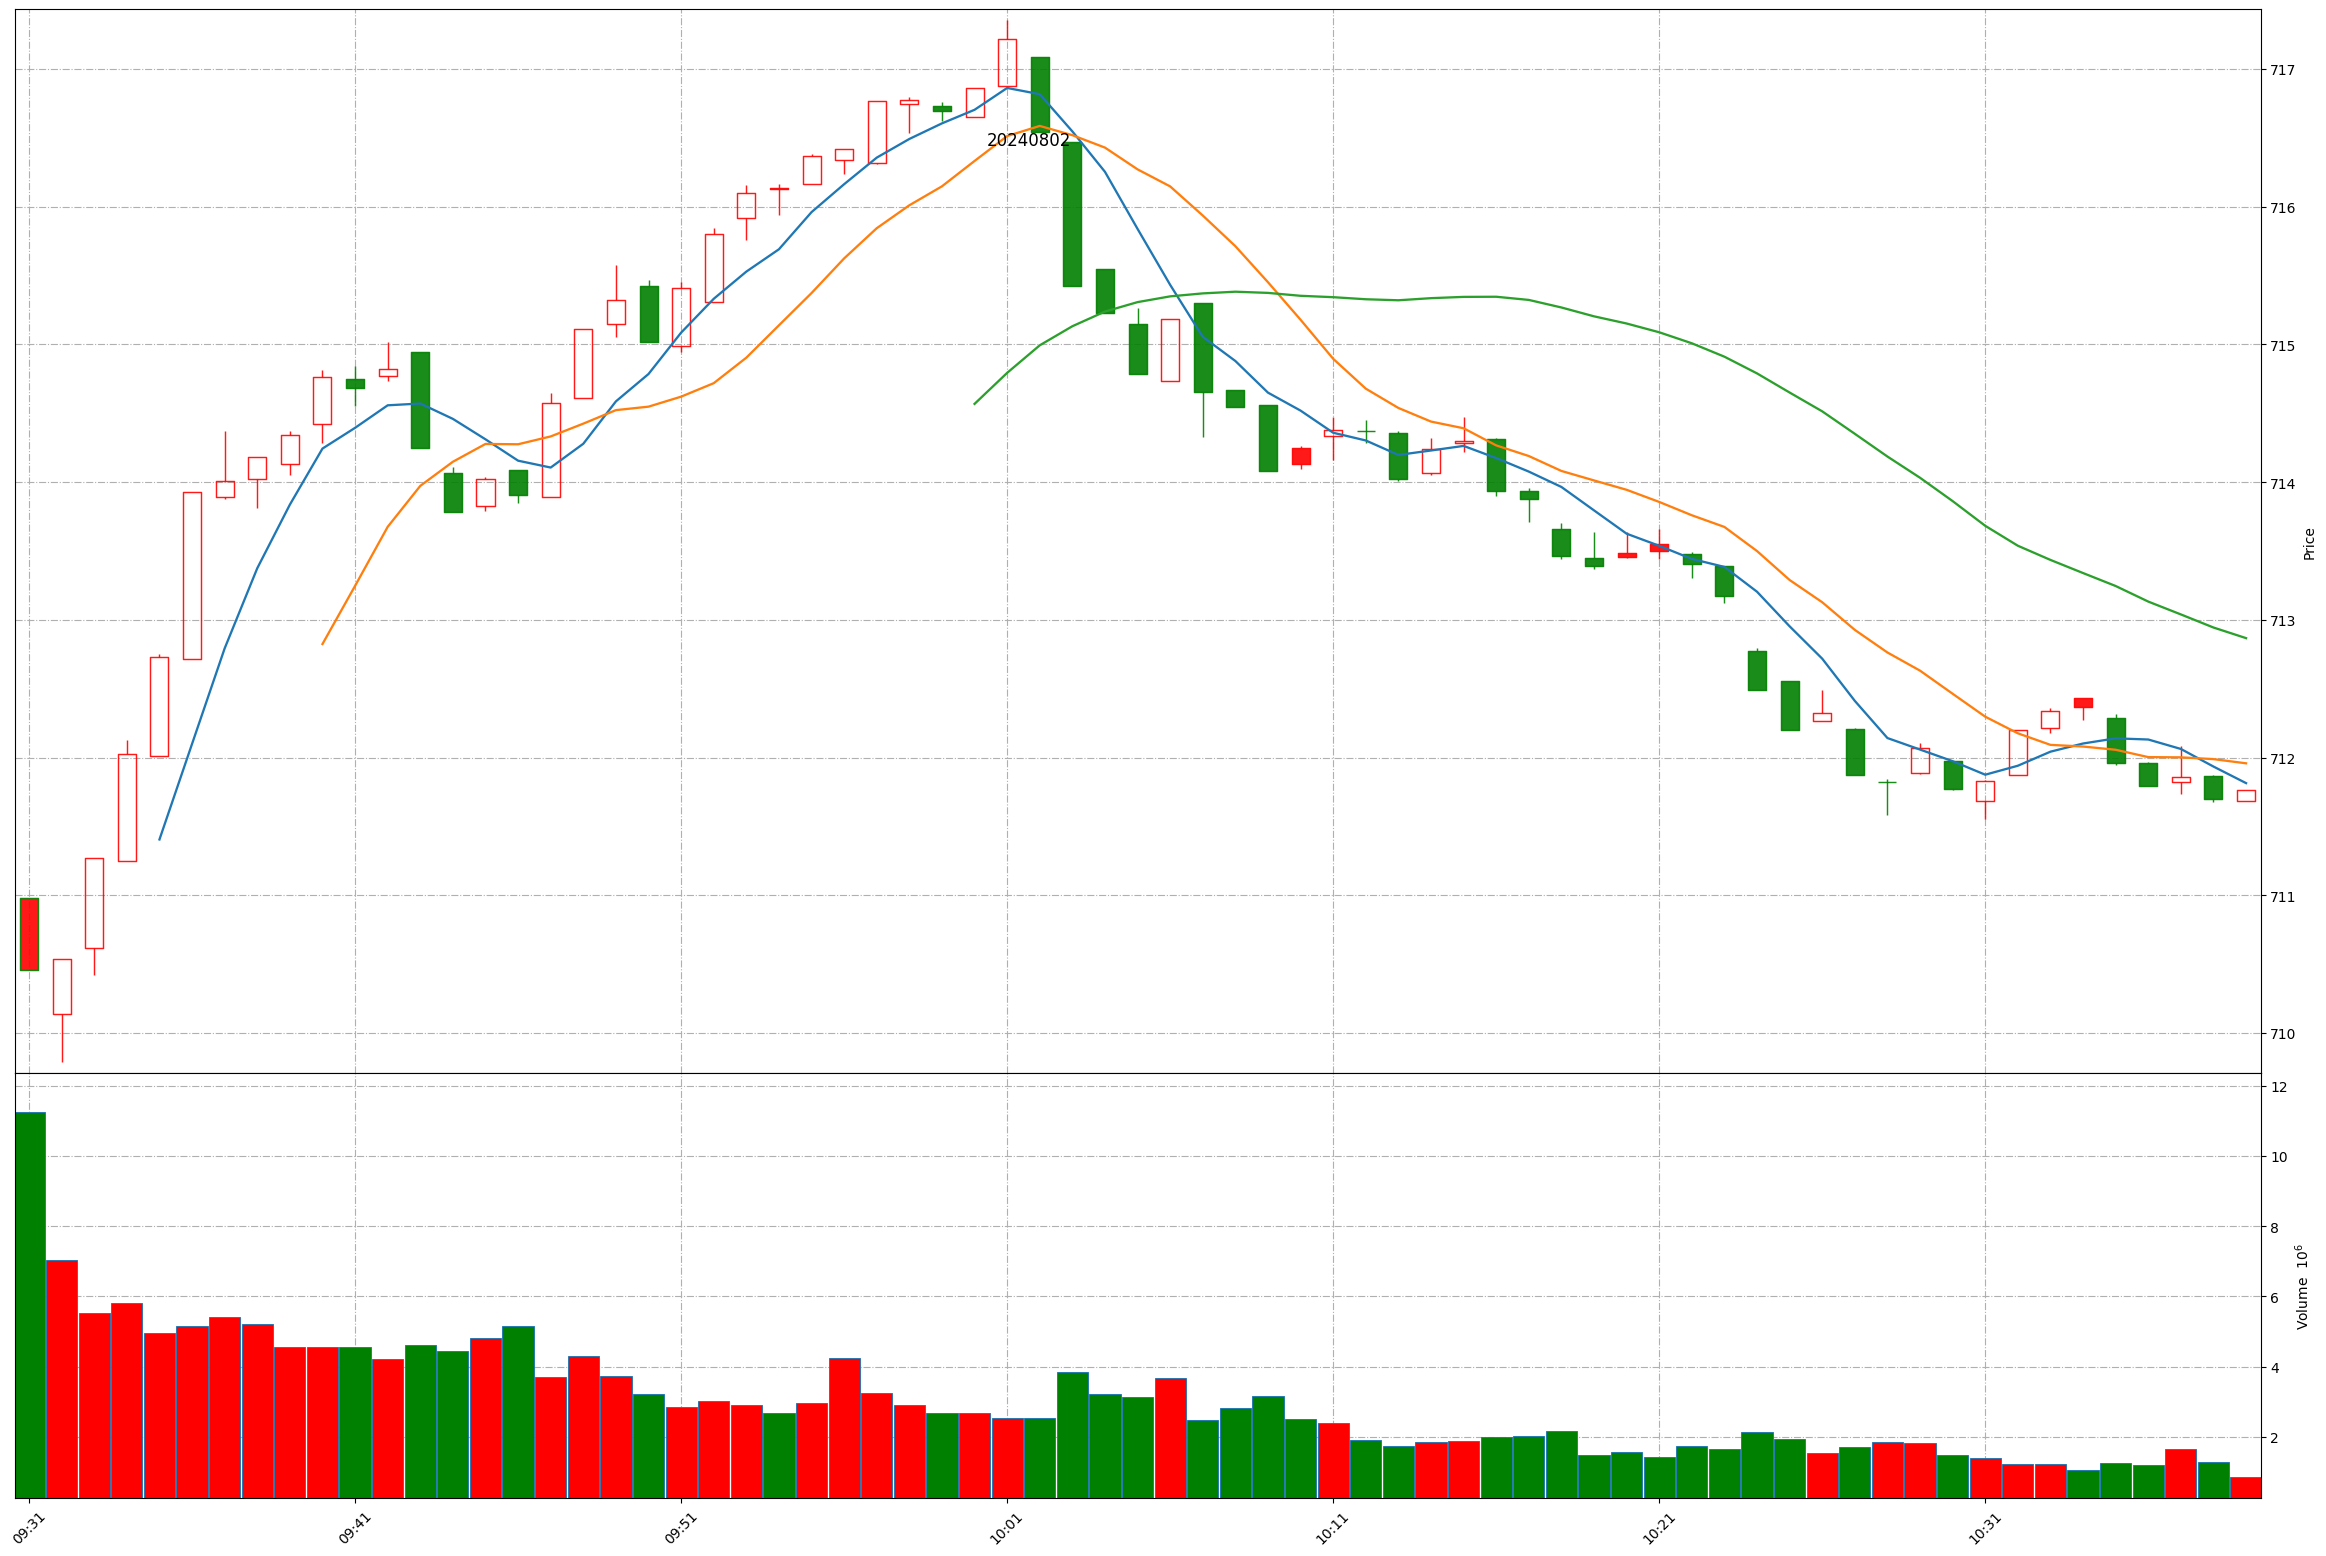
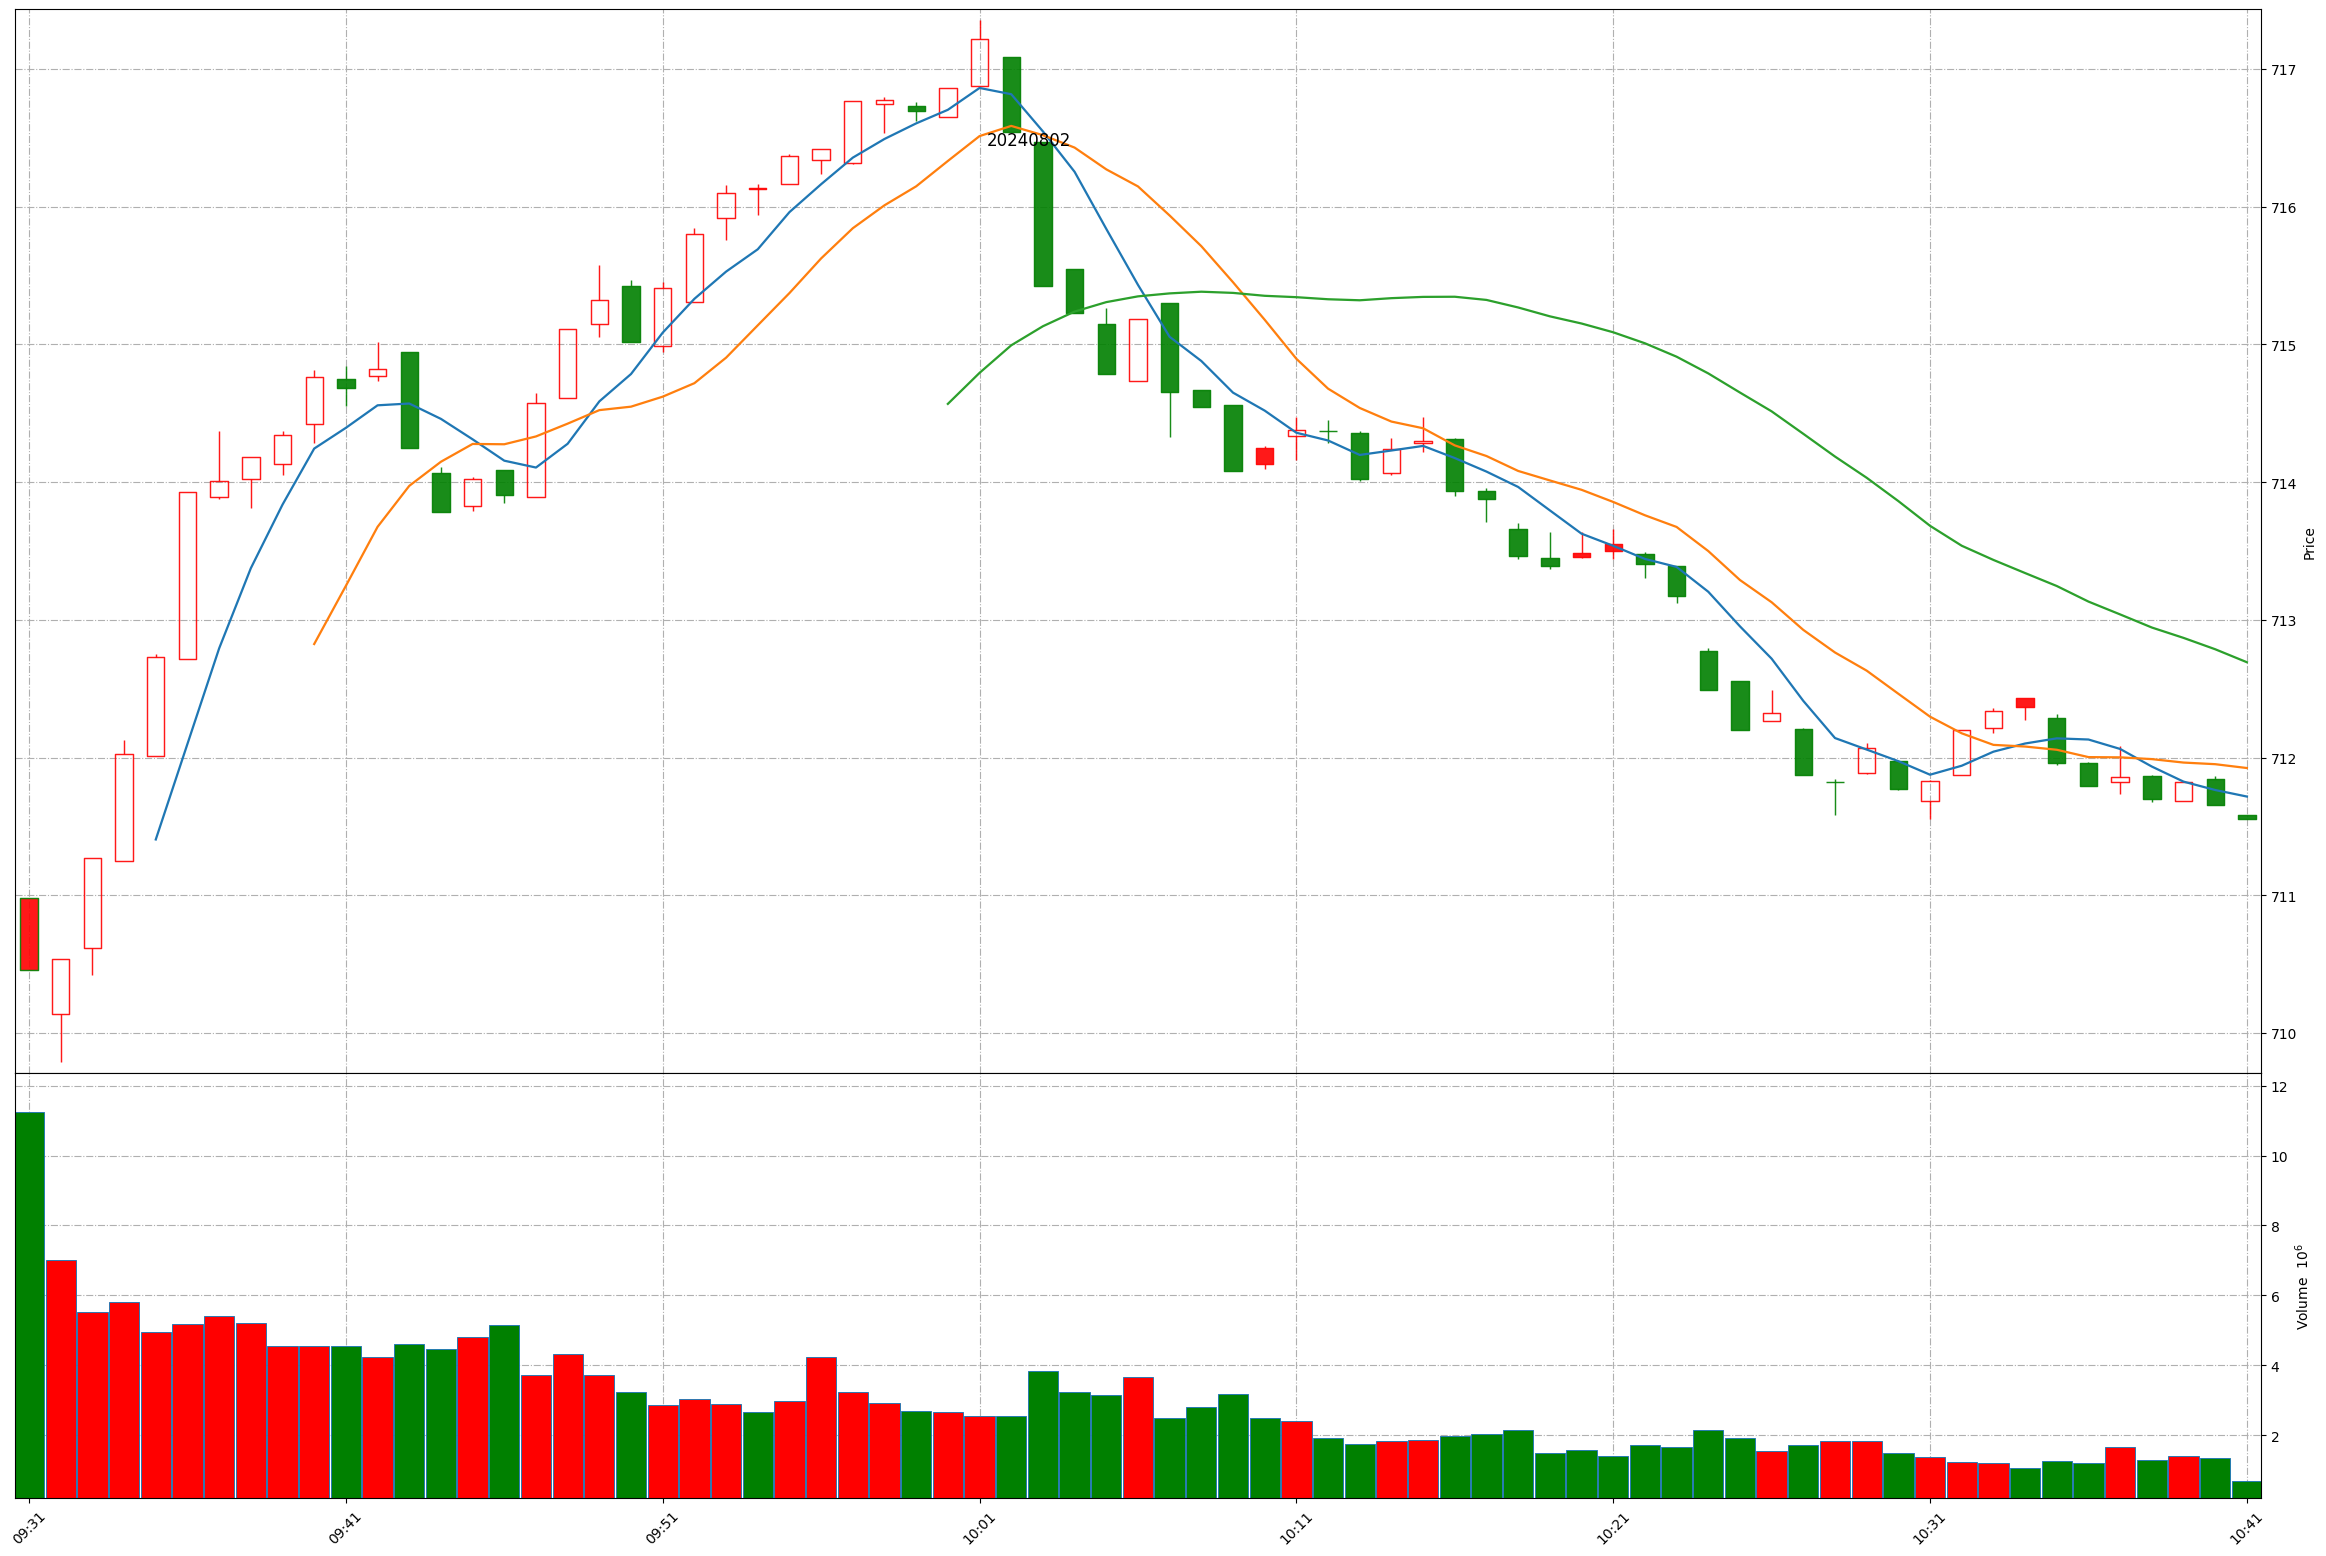
Github action update at 2024-08-02 10:40:34.

diff --git a/README.md b/README.md
@@ -1,11 +1,11 @@
 
 # Daily-A-share-market-quotes 每日 A 股指数（5min 更新）- 20240802
 
-### 上证指数 20240802 10:38
+### 上证指数 20240802 10:40
 ![](./fig/2024/8/20240802-sh000001.png)
 
-### 深证成指 20240802 10:38
+### 深证成指 20240802 10:40
 ![](./fig/2024/8/20240802-sz399001.png)
 
-### 北证50 20240802 10:38
+### 北证50 20240802 10:40
 ![](./fig/2024/8/20240802-bj899050.png)
